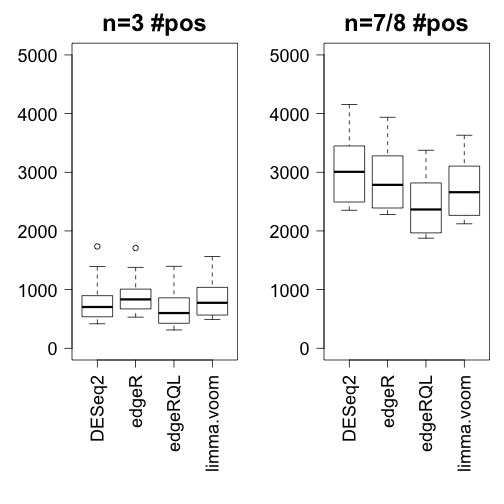
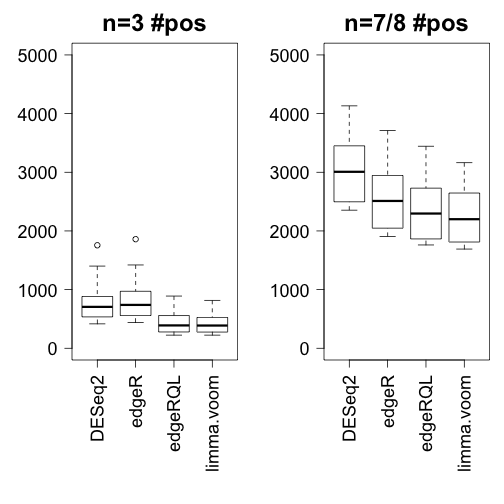
update plots using cpm for other methods

diff --git a/plots.md b/plots.md
@@ -20,8 +20,6 @@ image(sapply(1:30, function(i) as.integer(exper[randomSubsets[i,7:21],])),
       col=cols, main="out batch")
 ```
 
-![plot of chunk cond_batch](figure/cond_batch-1.png)
-
 
 
 ### Number of calls
@@ -39,9 +37,14 @@ boxplot(held, las=2, ylim=c(0,5000), main="n=7/8 #pos")
 
 
 ```r
-bigpar(1,2,mar=c(10,5,3,1))
-boxplot(fdr, las=2, ylim=c(0,.5), main="rough est. FDR")
-boxplot(sens, las=2, ylim=c(0,1), main="sensitivity")
+lines <- function() abline(h=0:10/10,col=rgb(0,0,0,.1))
+bigpar(1,3,mar=c(10,5,3,1))
+boxplot(fdr, las=2, ylim=c(0,0.5), main="rough est. FDR")
+lines()
+boxplot(fdr, las=2, ylim=c(0,1), main="rough est. FDR")
+lines()
+boxplot(sens, las=2, ylim=c(0,0.5), main="sensitivity")
+lines()
 ```
 
 ![plot of chunk fdr_sens](figure/fdr_sens-1.png)
